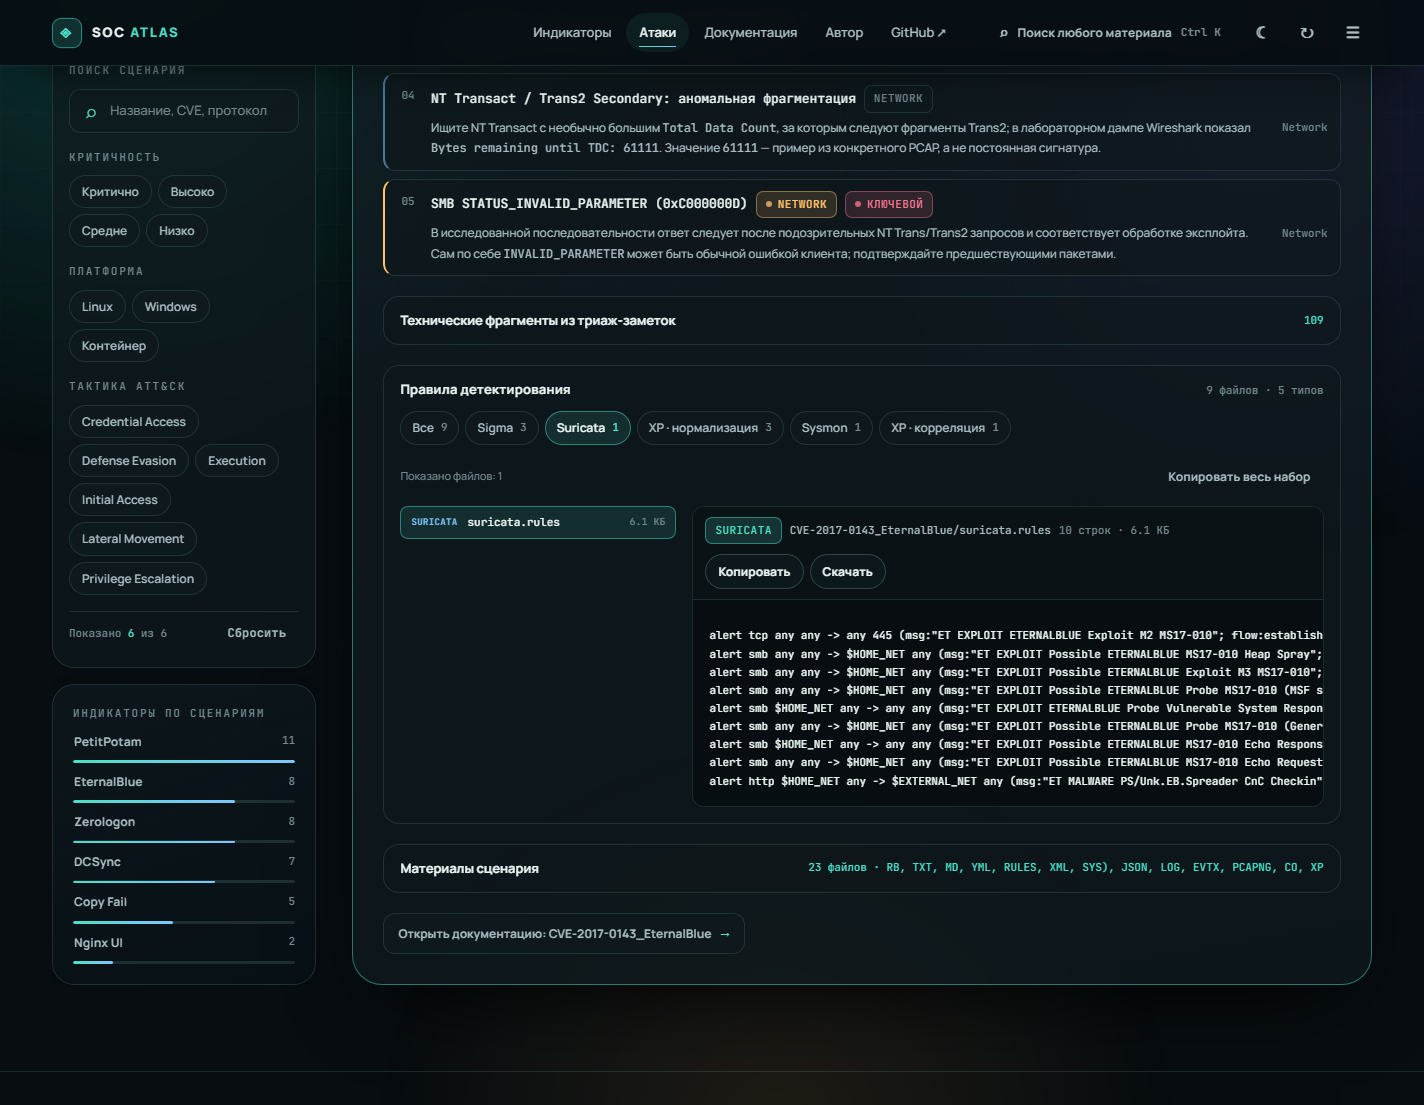
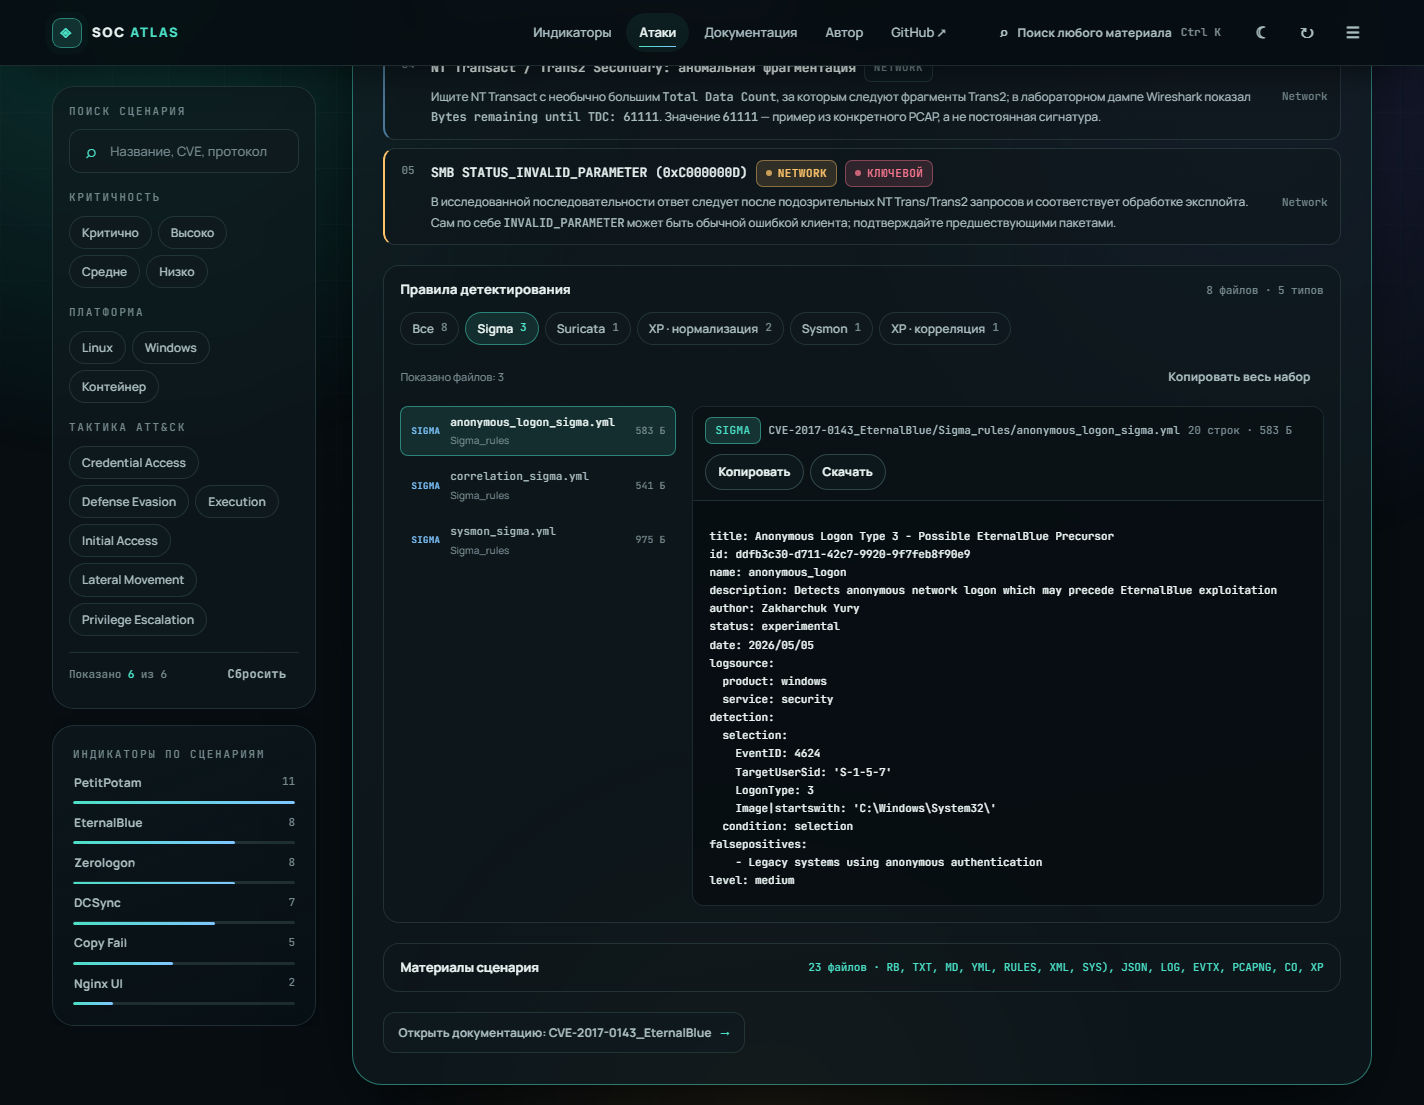
release_prod

diff --git a/app/static/js/attacks.js b/app/static/js/attacks.js
@@ -14,8 +14,6 @@ const state = {
   current: null,
 };
 
-const FRAGMENT_KINDS = ["Event ID", "Код статуса", "RPC-метод", "Opnum", "HTTP-путь", "UUID"];
-
 function matches(item) {
   const term = normalize(state.query);
   if (term) {
@@ -106,30 +104,6 @@ function renderGrid() {
   host.innerHTML = visible.length
     ? visible.map(scenarioCard).join("")
     : `<div class="result result--empty">Под выбранные фильтры сценариев нет. Сбросьте фильтры или измените запрос.</div>`;
-}
-
-function fragmentRow(value, kind) {
-  return `<div class="cluster" style="gap:8px">
-      <span class="badge badge--plain">${esc(kind)}</span>
-      <code class="result__value" data-copy-value="${esc(value)}" title="Нажмите, чтобы скопировать">${esc(value)}</code>
-      <button class="icon-btn" type="button" data-collect="${esc(value)}" data-collect-type="${esc(kind)}" title="В набор IOC" aria-label="Добавить ${esc(value)}">＋</button>
-    </div>`;
-}
-
-function fragmentsBlock(detail) {
-  const fragments = detail.fragments || [];
-  const shown = fragments.filter((fragment) => FRAGMENT_KINDS.includes(fragment.kind)).slice(0, 18);
-  if (!shown.length) return "";
-  const hidden = fragments.length - shown.length;
-  return `
-    <details class="materials">
-      <summary><span>Технические фрагменты из триаж-заметок</span><small>${fragments.length}</small></summary>
-      <div class="stack stack--sm" style="padding:14px 16px">
-        <p class="text-xs dim">Автоматически извлечённые значения из пояснений: удобно копировать в правила и запросы SIEM.</p>
-        ${shown.map((fragment) => fragmentRow(fragment.value, fragment.kind)).join("")}
-        ${hidden > 0 ? `<p class="text-2xs dim">Ещё ${hidden} фрагментов скрыто — используйте поиск по индикаторам.</p>` : ""}
-      </div>
-    </details>`;
 }
 
 function iocRow(indicator, index, group) {
@@ -265,8 +239,6 @@ function detailTemplate(detail) {
           .join("")}
       </div>
     </div>
-
-    ${fragmentsBlock(detail)}
 
     <section id="attack-rules" class="rules-host" aria-label="Правила детектирования"></section>
 

diff --git a/app/main.py b/app/main.py
@@ -147,14 +147,42 @@ def _add_fragment(store: dict, raw: str, kind: str, attach_to: str | None = None
         entry["attach"] = attach_to
 
 
+def _add_quoted_value(store: dict, raw: str, attach_to: str | None = None) -> None:
+    """Значение из `обратных кавычек`: только похожее на реальный технический артефакт.
+
+    Файл IOC — это проза, поэтому без фильтра в список попадают обрывки фраз. Правила:
+    одно слово (или токен с путём), без предложений, без чистых чисел вроде 61111.
+    """
+    value = _clean_fragment(raw)
+    if not value or len(value) < 3 or len(value) > 80:
+        return
+    if re.search(r"\.\s|,\s|;\s|:\s|[!?]\s", value):
+        return
+    if "(" in value and ")" not in value:
+        return
+    if " " in value and not re.search(r"[\\/:]", value):
+        return
+    if re.fullmatch(r"[\d\s.,:]+", value):
+        return
+    if value.isdigit():
+        return
+    # То, что уже попадает в отдельные категории, в «Значения» не дублируем.
+    if STATUS_CODE_RE.search(value) or UUID_RE.search(value) or HTTP_RE.search(value) or "=" in value:
+        return
+    _add_fragment(store, value, "Значение", attach_to)
+
+
 def extract_fragments(text: str) -> dict:
-    """Pull concrete technical artefacts out of mixed Russian/English prose."""
+    """Достаёт из описаний IOC конкретные артефакты: ID событий, коды, RPC-методы.
+
+    Используется поиском и командной палитрой: обрывки фраз не собираем, иначе подсказки
+    превращаются в мусор.
+    """
     store: dict = {}
     for line in text.splitlines():
         stripped = line.strip()
         if not stripped:
             continue
-        marker = bool(LIST_MARKER_RE.match(stripped))
         anchors: list[tuple[int, str]] = []
         for match in EVENT_LABEL_RE.finditer(stripped):
             source = EVENT_SOURCES.get(match.group(0).split("Event")[0].strip().casefold(), "")
@@ -164,7 +192,7 @@ def extract_fragments(text: str) -> dict:
                 anchors.append((match.start(), value))
         for match in QUOTED_RE.finditer(stripped):
             inner = match.group(1)
-            _add_fragment(store, inner, "Значение", anchors[0][1] if anchors else None)
+            _add_quoted_value(store, inner, anchors[0][1] if anchors else None)
             for uuid in UUID_RE.findall(inner):
                 _add_fragment(store, uuid, "UUID", inner)
             for opnum in OPNUM_RE.finditer(inner):
@@ -185,12 +213,9 @@ def extract_fragments(text: str) -> dict:
             _add_fragment(store, match.group(0), "Домен", anchors[0][1] if anchors else None)
         for match in HASH_LIKE_RE.finditer(stripped):
             _add_fragment(store, match.group(0), "Хеш", anchors[0][1] if anchors else None)
-        if not stripped.startswith("`"):
-            for chunk in SPLIT_RE.split(re.sub(r"^-+\s*", "", stripped)):
-                token = _clean_fragment(chunk)
-                if 3 <= len(token) <= 48 and re.search(r"[A-Za-zА-Яа-я]", token) and not token.endswith((".", "!", "?")):
-                    _add_fragment(store, token, "Ключ", anchors[0][1] if anchors else None)
     return store
+
+
 
 
 def attack_directory(attack_id: str) -> Path:
@@ -832,7 +857,7 @@ RULE_KINDS: list[tuple[str, str, tuple[str, ...]]] = [
     ("sigma", "Sigma", ("sigma",)),
     ("suricata", "Suricata", ("suricata",)),
     ("auditd", "auditd", ("audit.rules", "auditd", "audit_rule")),
-    ("xp-normalization", "XP · нормализация", ("normalization_rule", "normalization_event")),
+    ("xp-normalization", "XP · нормализация", ("normalization_rule",)),
     ("sysmon", "Sysmon", ("sysmon",)),
     ("xp-correlation", "XP · корреляция", ("correlation_rule", "correlation")),
     ("xp-rule", "XP · правило", ("rule.co", "formula.xp")),
@@ -860,7 +885,8 @@ RULE_EXCLUDE = re.compile(
     re.I,
 )
 # Служебные файлы правил: без них список остаётся списком самих правил.
-RULE_EXCLUDED_NAMES = {"metainfo.yaml", "metainfo.yml", "normalized_success.json"}
+# normalization_event.txt — это примеры нормализованных событий, а не правило.
+RULE_EXCLUDED_NAMES = {"metainfo.yaml", "metainfo.yml", "normalized_success.json", "normalization_event.txt"}
 RULE_EXTENSIONS = {".rules", ".yml", ".yaml", ".xml", ".conf", ".co", ".xp", ".json", ".txt", ".py", ".ps1", ".rb", ".spl"}
 
 

diff --git a/README.md b/README.md
@@ -93,9 +93,9 @@ correlation
 | **XP · корреляция** | папка `correlation_rule/`, файлы `rule.co`, `formula.xp` |
 | **KUMA / MaxPatrol / Wazuh / ELK / Splunk** | файлы и папки с соответствующими именами; список типов расширяется в `RULE_KINDS` внутри `app/main.py` |
 
-Служебные файлы (`metainfo.yaml`, переводы `i18n`, каталоги `tests/`, материалы `triage/`)
-в список не попадают. Содержимое правила загружается только при открытии — страница
-не утяжеляется, даже если правил в сценарии десятки.
+Служебные файлы (`metainfo.yaml`, `normalization_event.txt`, переводы `i18n`, каталоги
+`tests/`, материалы `triage/`) в список не попадают. Содержимое правила загружается только
+при открытии — страница не утяжеляется, даже если правил в сценарии десятки.
 
 Экспорт CSV отдаётся с UTF-8 BOM и CRLF, поэтому Excel открывает кириллицу без «кракозябр».
 
